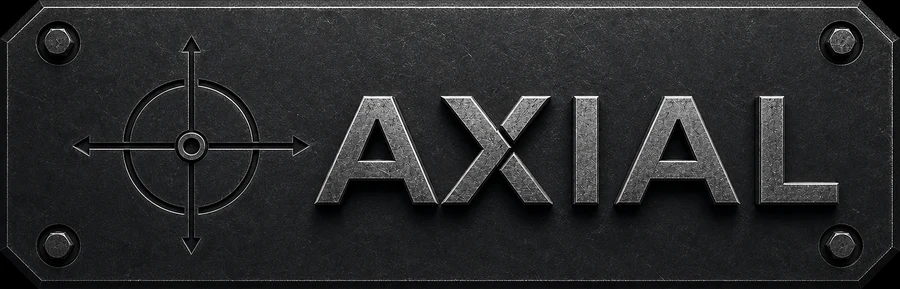
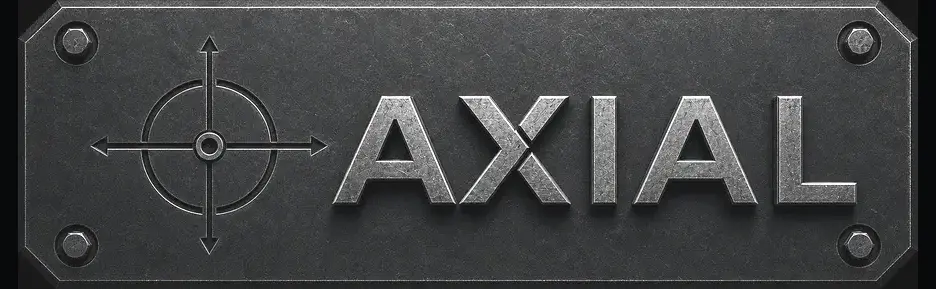
Unify industrial navbar materials

diff --git a/site/assets/scss/_styles_project.scss b/site/assets/scss/_styles_project.scss
@@ -64,24 +64,19 @@ samp,
   min-height: 5.4rem;
   padding: 0.62rem 0.9rem;
   border: 0;
-  background:
-    radial-gradient(circle at 18% 20%, rgba(255, 255, 255, 0.055) 0 1px, transparent 1.5px),
-    radial-gradient(circle at 72% 66%, rgba(255, 255, 255, 0.035) 0 1px, transparent 1.5px),
-    linear-gradient(180deg, #25292d, #15181c 68%, #090b0e);
-  background-size: 19px 17px, 23px 21px, auto;
+  background: #111417;
   box-shadow: inset 0 -1px #000, 0 3px 12px rgba(0, 0, 0, 0.45);
 
   .td-navbar-container {
     position: relative;
     min-height: 4.12rem;
-    padding: 0.25rem 1.7rem;
+    padding: 0.25rem 1.05rem;
     border: 1px solid #596068;
     border-top-color: #a0a5aa;
     border-bottom-color: #0b0d0f;
     background:
-      radial-gradient(ellipse at 14% 25%, rgba(255, 255, 255, 0.035), transparent 25%),
-      repeating-linear-gradient(112deg, rgba(255, 255, 255, 0.012) 0 1px, transparent 1px 6px),
-      linear-gradient(180deg, #292c2f 0%, #1a1c1f 48%, #111315 100%);
+      linear-gradient(180deg, rgba(255, 255, 255, 0.035), rgba(0, 0, 0, 0.22)),
+      url("/content/img/axial-steel-texture.webp") center / 700px 105px repeat-x;
     box-shadow:
       inset 0 2px 0 rgba(255, 255, 255, 0.10),
       inset 0 -3px 0 rgba(0, 0, 0, 0.56),
@@ -90,36 +85,19 @@ samp,
       0 2px 0 #70767b,
       0 4px 0 #090b0d;
 
-    &::before,
-    &::after {
-      content: "";
-      position: absolute;
-      z-index: 2;
-      top: 50%;
-      width: 0.66rem;
-      height: 0.66rem;
-      border: 1px solid #858b90;
-      border-radius: 50%;
-      background: radial-gradient(circle at 38% 34%, #c4c8ca 0 8%, #656a6e 18%, #17191b 52%, #050607 68%);
-      box-shadow: inset 0 0 2px #000, 0 1px 1px #000;
-      transform: translateY(-50%);
-    }
-
-    &::before { left: 0.52rem; }
-    &::after { right: 0.52rem; }
   }
 
   .navbar-brand {
     position: relative;
     z-index: 1;
     margin: 0;
-    padding: 0;
+    padding: 0 0.45rem;
   }
 
   .navbar-brand__logo {
     display: block;
     width: auto;
-    height: 3.45rem;
+    height: 3.62rem;
     filter: drop-shadow(0 2px 2px rgba(0, 0, 0, 0.72));
 
     img {
@@ -131,7 +109,7 @@ samp,
 
   .navbar-nav {
     align-items: stretch;
-    gap: 2.1rem;
+    gap: 0;
   }
 
   .nav-item {
@@ -139,30 +117,32 @@ samp,
     display: flex;
     align-items: center;
 
+    & + .nav-item {
+      margin-left: 2.2rem;
+    }
+
     & + .nav-item::before {
       content: "";
       position: absolute;
-      left: -1.08rem;
-      top: 0.35rem;
-      bottom: 0.35rem;
-      width: 2px;
-      border-left: 1px solid #070809;
-      border-right: 1px solid #767b7f;
-      background: #25282a;
-      box-shadow: 1px 0 rgba(255, 255, 255, 0.06);
+      left: -1.1rem;
+      top: 0.48rem;
+      bottom: 0.48rem;
+      width: 1px;
+      background: linear-gradient(180deg, #8a8f92, #1b1e20 18%, #0a0b0c 82%, #72777a);
+      box-shadow: 1px 0 rgba(255, 255, 255, 0.08), -1px 0 #050607;
     }
 
     & + .nav-item::after {
       content: "";
       position: absolute;
-      left: -1.28rem;
+      left: calc(-1.1rem - 0.18rem);
       top: 50%;
-      width: 0.42rem;
-      height: 0.42rem;
-      border: 1px solid #73787c;
+      width: 0.36rem;
+      height: 0.36rem;
+      border: 1px solid #686d70;
       border-radius: 50%;
-      background: radial-gradient(circle at 38% 34%, #b9bdc0 0 9%, #53575a 22%, #111315 60%);
-      box-shadow: 0 1px 1px #000;
+      background: radial-gradient(circle at 38% 34%, #aeb2b4 0 8%, #474b4e 25%, #0c0e0f 62%);
+      box-shadow: 0 1px 1px #000, 0 0 0 2px rgba(0, 0, 0, 0.28);
       transform: translateY(-50%);
     }
   }
@@ -202,7 +182,9 @@ samp,
     &:hover {
       color: #d9e3e5;
       border-color: rgba(177, 194, 198, 0.25);
-      background: linear-gradient(180deg, rgba(157, 174, 178, 0.10), rgba(50, 59, 62, 0.04));
+      background:
+        linear-gradient(180deg, rgba(177, 194, 198, 0.10), rgba(24, 31, 33, 0.12)),
+        url("/content/img/axial-steel-texture.webp") center / cover;
       text-shadow: 0 0 5px rgba(202, 240, 244, 0.18), 0 1px 1px #000;
 
       &::before {
@@ -217,8 +199,8 @@ samp,
       color: #f0fbfc;
       border-color: rgba(205, 220, 222, 0.64);
       background:
-        repeating-linear-gradient(110deg, rgba(255, 255, 255, 0.024) 0 1px, transparent 1px 5px),
-        linear-gradient(180deg, rgba(157, 181, 185, 0.24), rgba(57, 74, 78, 0.20) 55%, rgba(13, 20, 22, 0.22));
+        linear-gradient(180deg, rgba(194, 215, 219, 0.22), rgba(52, 69, 72, 0.18) 55%, rgba(8, 13, 14, 0.30)),
+        url("/content/img/axial-steel-texture.webp") center / cover;
       box-shadow:
         inset 0 1px rgba(255, 255, 255, 0.30),
         inset 0 -2px rgba(0, 0, 0, 0.65),
@@ -270,6 +252,10 @@ samp,
     }
 
     .navbar-nav { gap: 0.6rem; }
+
+    .nav-item + .nav-item {
+      margin-left: 0.6rem;
+    }
 
     .nav-item + .nav-item::before,
     .nav-item + .nav-item::after { display: none; }
